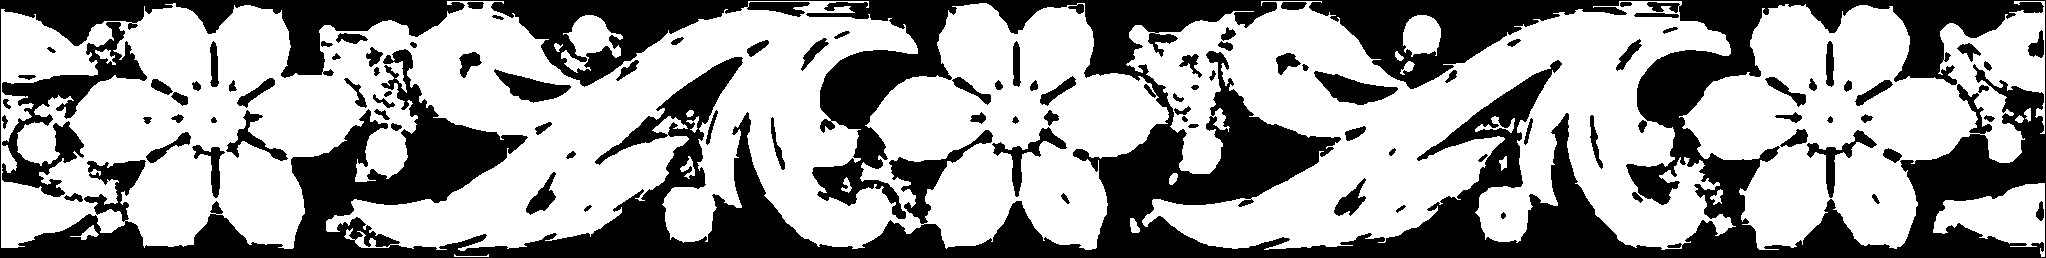
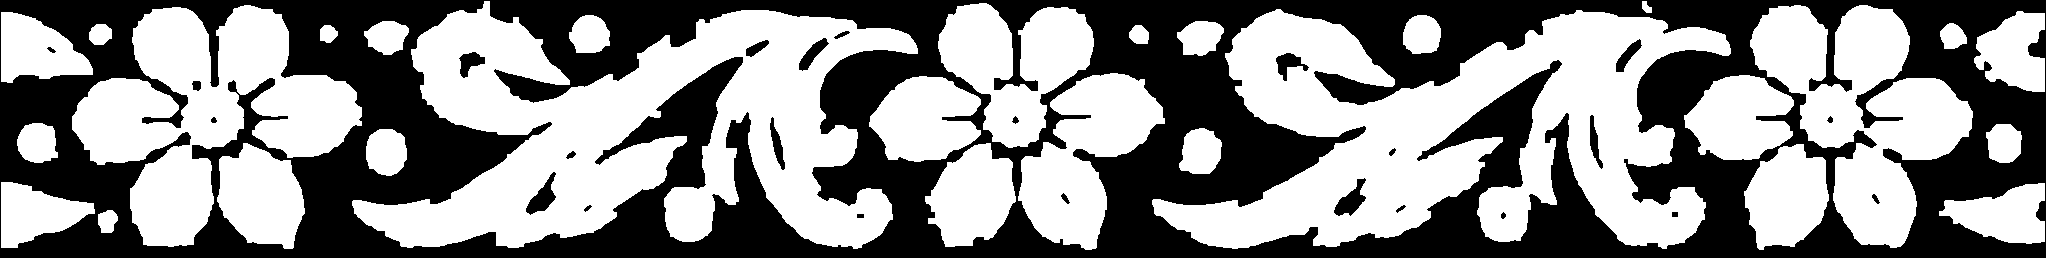
v2 step 2b: mask_panel.py removes pitted-ground speckle (texture-energy patches) - fixes area user circled between flower and scroll

diff --git a/tools/v2/mask_panel.py b/tools/v2/mask_panel.py
@@ -20,6 +20,10 @@ m=ndi.binary_opening(ndi.binary_closing(m,np.ones((3,3))),np.ones((3,3))); m=ndi
 s=(cv2.GaussianBlur(V,(0,0),1.0)<65)&ndi.binary_erosion(m,iterations=2)
 lab,n=ndi.label(s);sz=ndi.sum(s,lab,range(1,n+1));s=np.isin(lab,[i+1 for i,z in enumerate(sz) if z>=12])
 m=m&~ndi.binary_dilation(s,iterations=1)
-lab,n=ndi.label(m);sz=ndi.sum(m,lab,range(1,n+1));m=np.isin(lab,[i+1 for i,z in enumerate(sz) if z>=40])
+# ground-texture removal (D-v2 s72d, user flagged ground speckle merged into gold between flower and scroll): pitted ground = wide patches of high local texture energy
+T=cv2.GaussianBlur(np.abs(V-cv2.GaussianBlur(V,(0,0),1.5)),(0,0),2)
+g=ndi.binary_erosion(ndi.binary_opening(T>14,structure=np.ones((11,11))),iterations=4)   # open 11 keeps wide patches only (rims are thin); erode 4 = compensate texture-blur bleed into gold
+m=ndi.binary_opening(m&~g,structure=np.ones((5,5)))
+lab,n=ndi.label(m);sz=ndi.sum(m,lab,range(1,n+1));m=np.isin(lab,[i+1 for i,z in enumerate(sz) if z>=80])
 cv2.imwrite('maps/v2/panel_mask.png',(m*255).astype(np.uint8))
 # periodicity: IoU of mask vs mask shifted by period for shifts around 813 (x offset 70 removed)
